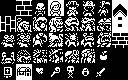
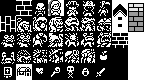
Added wall, fixed pixel errors

diff --git a/src/Object.c b/src/Object.c
@@ -8,23 +8,18 @@ void Object_ovrdGraphics(Object* obj) {
 
 		Vec2F obj_origin_wrt_camera_obj = Vec2FSub(obj->pos, camera->pos);
 		Vec2I obj_origin_wrt_screen_center = Vec2Fto2I(Vec2FMul(obj_origin_wrt_camera_obj, CurrentPixelsPerMeter()));
-		Vec2I obj_gfx_origin_wrt_screen_center = Vec2IAdd(obj_origin_wrt_screen_center, obj->txOffset);
+		Vec2I obj_gfx_origin_wrt_screen_center = Vec2IAdd(obj_origin_wrt_screen_center, (Vec2I) {
+			obj->txOffset.x * CurrentPixelsPerMeter() / CurrentTileWidth(),
+			obj->txOffset.y * CurrentPixelsPerMeter() / CurrentTileWidth()
+		});
 		Vec2I obj_gfx_origin_wrt_screen_origin = Vec2IAdd((Vec2I) { CurrentScreenWidth() / 2, CurrentScreenHeight() / 2 }, obj_gfx_origin_wrt_screen_center);
-		int obj_width_on_screen = round(obj->txSize.x) * CurrentPixelsPerMeter();
-		int obj_height_on_screen = round(obj->txSize.y) * CurrentPixelsPerMeter();
 		SDL_Rect dstrect = (SDL_Rect){
-			obj_gfx_origin_wrt_screen_origin.x - obj_width_on_screen / 2,
-			obj_gfx_origin_wrt_screen_origin.y - obj_height_on_screen / 2,
-			obj_width_on_screen,
-			obj_height_on_screen
+			obj_gfx_origin_wrt_screen_origin.x - obj->txSrc.w * CurrentPixelsPerMeter() / CurrentTileWidth() / 2,
+			obj_gfx_origin_wrt_screen_origin.y - obj->txSrc.h * CurrentPixelsPerMeter() / CurrentTileWidth() / 2,
+			obj->txSrc.w * CurrentPixelsPerMeter() / CurrentTileWidth(),
+			obj->txSrc.h * CurrentPixelsPerMeter() / CurrentTileWidth()
 		};
-		// If txSrc size is zero, probably the object tx is overloaded
-		if (obj->txSrc.w == 0 && obj->txSrc.h == 0) {
-			SDL_RenderCopyEx(CurrentRenderer(), obj->tx, NULL, &dstrect, obj->angle, NULL, SDL_FLIP_NONE);
-		} else {
-			SDL_RenderCopyEx(CurrentRenderer(), obj->tx, &obj->txSrc, &dstrect, obj->angle, NULL, SDL_FLIP_NONE);
-		}
-		
+		SDL_RenderCopyEx(CurrentRenderer(), obj->tx, &obj->txSrc, &dstrect, obj->angle, NULL, SDL_FLIP_NONE);
 	}
 }
 

diff --git a/src/Player.c b/src/Player.c
@@ -44,9 +44,7 @@ int PlayerInit(Object *obj) {
 	PROPAGATE_ERROR(ObjectInit(obj));
 	obj->prePhysics = Player_prePhysics;
 	obj->txSrc = (SDL_Rect) {48, 0, 16, 16};
-	float screen_ppm_over_image_ppm = CurrentPixelsPerMeter() / 16;
-	obj->txOffset = (Vec2I) {0, -6 * screen_ppm_over_image_ppm};
-	obj->txSize = (Vec2F) {1.0, 1.0};
+	obj->txOffset = (Vec2F) {0.5, -6.5};
 
 	Box2DBodyDef *bodyDef = Box2DBodyDefCreate();
 	Box2DBodyDefSetTypeDynamic(bodyDef);
@@ -55,17 +53,14 @@ int PlayerInit(Object *obj) {
 	Box2DBodyDefDestroy(bodyDef);
 
 	Box2DCircleShape *circleShape = Box2DCircleShapeCreate();
-	Box2DCircleShapeSetRadius(circleShape, 0.3125);
+	Box2DCircleShapeSetRadius(circleShape, 0.21875);
 
-	//Box2DPolygonShape *boxShape = Box2DPolygonShapeCreate();
-	//Box2DPolygonShapeSetAsBox(boxShape, (Vec2F) {0.25, 0.125});
 	Box2DFixtureDef *fixtureDef = Box2DFixtureDefCreate();
 	Box2DFixtureDefSetShape(fixtureDef, circleShape);
-	Box2DFixtureDefSetDensity(fixtureDef, 10.0);
+	Box2DFixtureDefSetDensity(fixtureDef, 15.0);
 	Box2DFixtureDefSetFriction(fixtureDef, 0.05);
 	Box2DFixture *fixture = Box2DBodyCreateFixtureFromFixtureDef(body, fixtureDef);
 	Box2DFixtureDefDestroy(fixtureDef);
-	//Box2DPolygonShapeDestroy(boxShape);
 	Box2DCircleShapeDestroy(circleShape);
 
 	Box2DBodySetLinearDamping(body, 10.0);

diff --git a/src/Blueprints/BlueprintWall.c b/src/Blueprints/BlueprintWall.c
@@ -1,0 +1,29 @@
+#include "../Blueprint.h"
+#include "../Main.h"
+#include "../Box2DWrapper.h"
+
+void Wall_deinit(Object* obj) {
+	Box2DWorldDestroyBody(CurrentWorld(), obj->body);
+}
+
+int BlueprintWallInit(Object* obj, Vec2F position) {
+	PROPAGATE_ERROR(ObjectInit(obj));
+	obj->pos = position;
+	obj->txSrc = (SDL_Rect){ 128, 0, 16, 32 };
+	obj->txOffset = (Vec2F){ 0.0, -8.0 };
+
+	Box2DBodyDef* bodyDef = Box2DBodyDefCreate();
+	Box2DBodyDefSetPosition(bodyDef, position);
+	Box2DBodyDefSetAllowSleep(bodyDef, true);
+	Box2DBody* body = Box2DWorldCreateBody(CurrentWorld(), bodyDef);
+	Box2DBodyDefDestroy(bodyDef);
+
+	Box2DPolygonShape* boxShape = Box2DPolygonShapeCreate();
+	Box2DPolygonShapeSetAsBox(boxShape, (Vec2F) { 0.4375, 0.4375 });
+	Box2DFixture* fixture = Box2DBodyCreateFixtureFromShape(body, boxShape, 0.0);
+	Box2DPolygonShapeDestroy(boxShape);
+	obj->body = body;
+
+	obj->deinit = Wall_deinit;
+	return 0;
+}

diff --git a/src/Blueprints/BlueprintStaticBox.c b/src/Blueprints/BlueprintStaticBox.c
@@ -11,7 +11,7 @@ int BlueprintStaticBoxInit(Object *obj, Vec2F position) {
 	PROPAGATE_ERROR(ObjectInit(obj));
 	obj->pos = position;
 	obj->txSrc = (SDL_Rect) {16, 64, 16, 16};
-	obj->txSize = (Vec2F) {1.0, 1.0};
+	obj->txOffset = (Vec2F){ 0.0, -3.0 };
 
 	Box2DBodyDef *bodyDef = Box2DBodyDefCreate();
 	Box2DBodyDefSetPosition(bodyDef, position);
@@ -20,7 +20,7 @@ int BlueprintStaticBoxInit(Object *obj, Vec2F position) {
 	Box2DBodyDefDestroy(bodyDef);
 
 	Box2DPolygonShape *boxShape = Box2DPolygonShapeCreate();
-	Box2DPolygonShapeSetAsBox(boxShape, (Vec2F) {0.4375, 0.28125});
+	Box2DPolygonShapeSetAsBox(boxShape, (Vec2F) {0.4375, 0.0625});
 	Box2DFixture *fixture = Box2DBodyCreateFixtureFromShape(body, boxShape, 0.0);
 	Box2DPolygonShapeDestroy(boxShape);
 	obj->body = body;

diff --git a/src/Levels/LevelTest.c b/src/Levels/LevelTest.c
@@ -17,8 +17,19 @@ int LevelTestLoad() {
 
 	// Test object
 	Object *staticBox1 = ArrayAppend(objArray, NULL);
-	BlueprintStaticBoxInit(staticBox1, (Vec2F) {5.0, 5.0});
+	BlueprintStaticBoxInit(staticBox1, (Vec2F) {6.0, 6.0});
 	DrawListInsert(drawList, staticBox1);
+
+	// Test object
+	Object* wall1 = ArrayAppend(objArray, NULL);
+	BlueprintWallInit(wall1, (Vec2F) { 8.0, 6.0 });
+	DrawListInsert(drawList, wall1);
+	Object* wall2 = ArrayAppend(objArray, NULL);
+	BlueprintWallInit(wall2, (Vec2F) { 9.0, 6.0 });
+	DrawListInsert(drawList, wall2);
+	Object* wall3 = ArrayAppend(objArray, NULL);
+	BlueprintWallInit(wall3, (Vec2F) { 10.0, 6.0 });
+	DrawListInsert(drawList, wall3);
 
 	LevelSetUnloader(LevelTestUnloader);
 	return 0;

diff --git a/src/Terrain.c b/src/Terrain.c
@@ -57,10 +57,9 @@ int TerrainGenerateTexture(Object* obj) {
 	}
 	SDL_SetRenderTarget(CurrentRenderer(), NULL);
 
-	// Store texture width, height in txSize
-	obj->txOffset.x = terrainData->colCount * CurrentTileWidth();
-	obj->txOffset.y = rowCount * CurrentTileWidth();
-	obj->txSize.x = terrainData->colCount;
-	obj->txSize.y = rowCount;
+	// Texture source is the whole texture
+	obj->txSrc = (SDL_Rect) {0, 0, terrainData->colCount * CurrentTileWidth(), rowCount * CurrentTileWidth()};
+	obj->txOffset.x = (terrainData->colCount - 1) * CurrentTileWidth() / 2;
+	obj->txOffset.y = (rowCount - 1) * CurrentTileWidth() / 2;
 	return 0;
 }

diff --git a/src/Object.h b/src/Object.h
@@ -18,8 +18,7 @@ typedef struct _Object {
 	// Graphics subsystem
 	SDL_Texture* tx;
 	SDL_Rect txSrc;
-	Vec2I txOffset;
-	Vec2F txSize;
+	Vec2F txOffset; // w.r.t source image, # of pixels
 	void (*preGraphics)(struct _Object*);
 	void (*ovrdGraphics)(struct _Object*);
 	void (*postGraphics)(struct _Object*);

diff --git a/src/Blueprint.h b/src/Blueprint.h
@@ -5,5 +5,6 @@
 #include "Error.h"
 
 int BlueprintStaticBoxInit(Object *obj, Vec2F position);
+int BlueprintWallInit(Object* obj, Vec2F position);
 
 #endif
